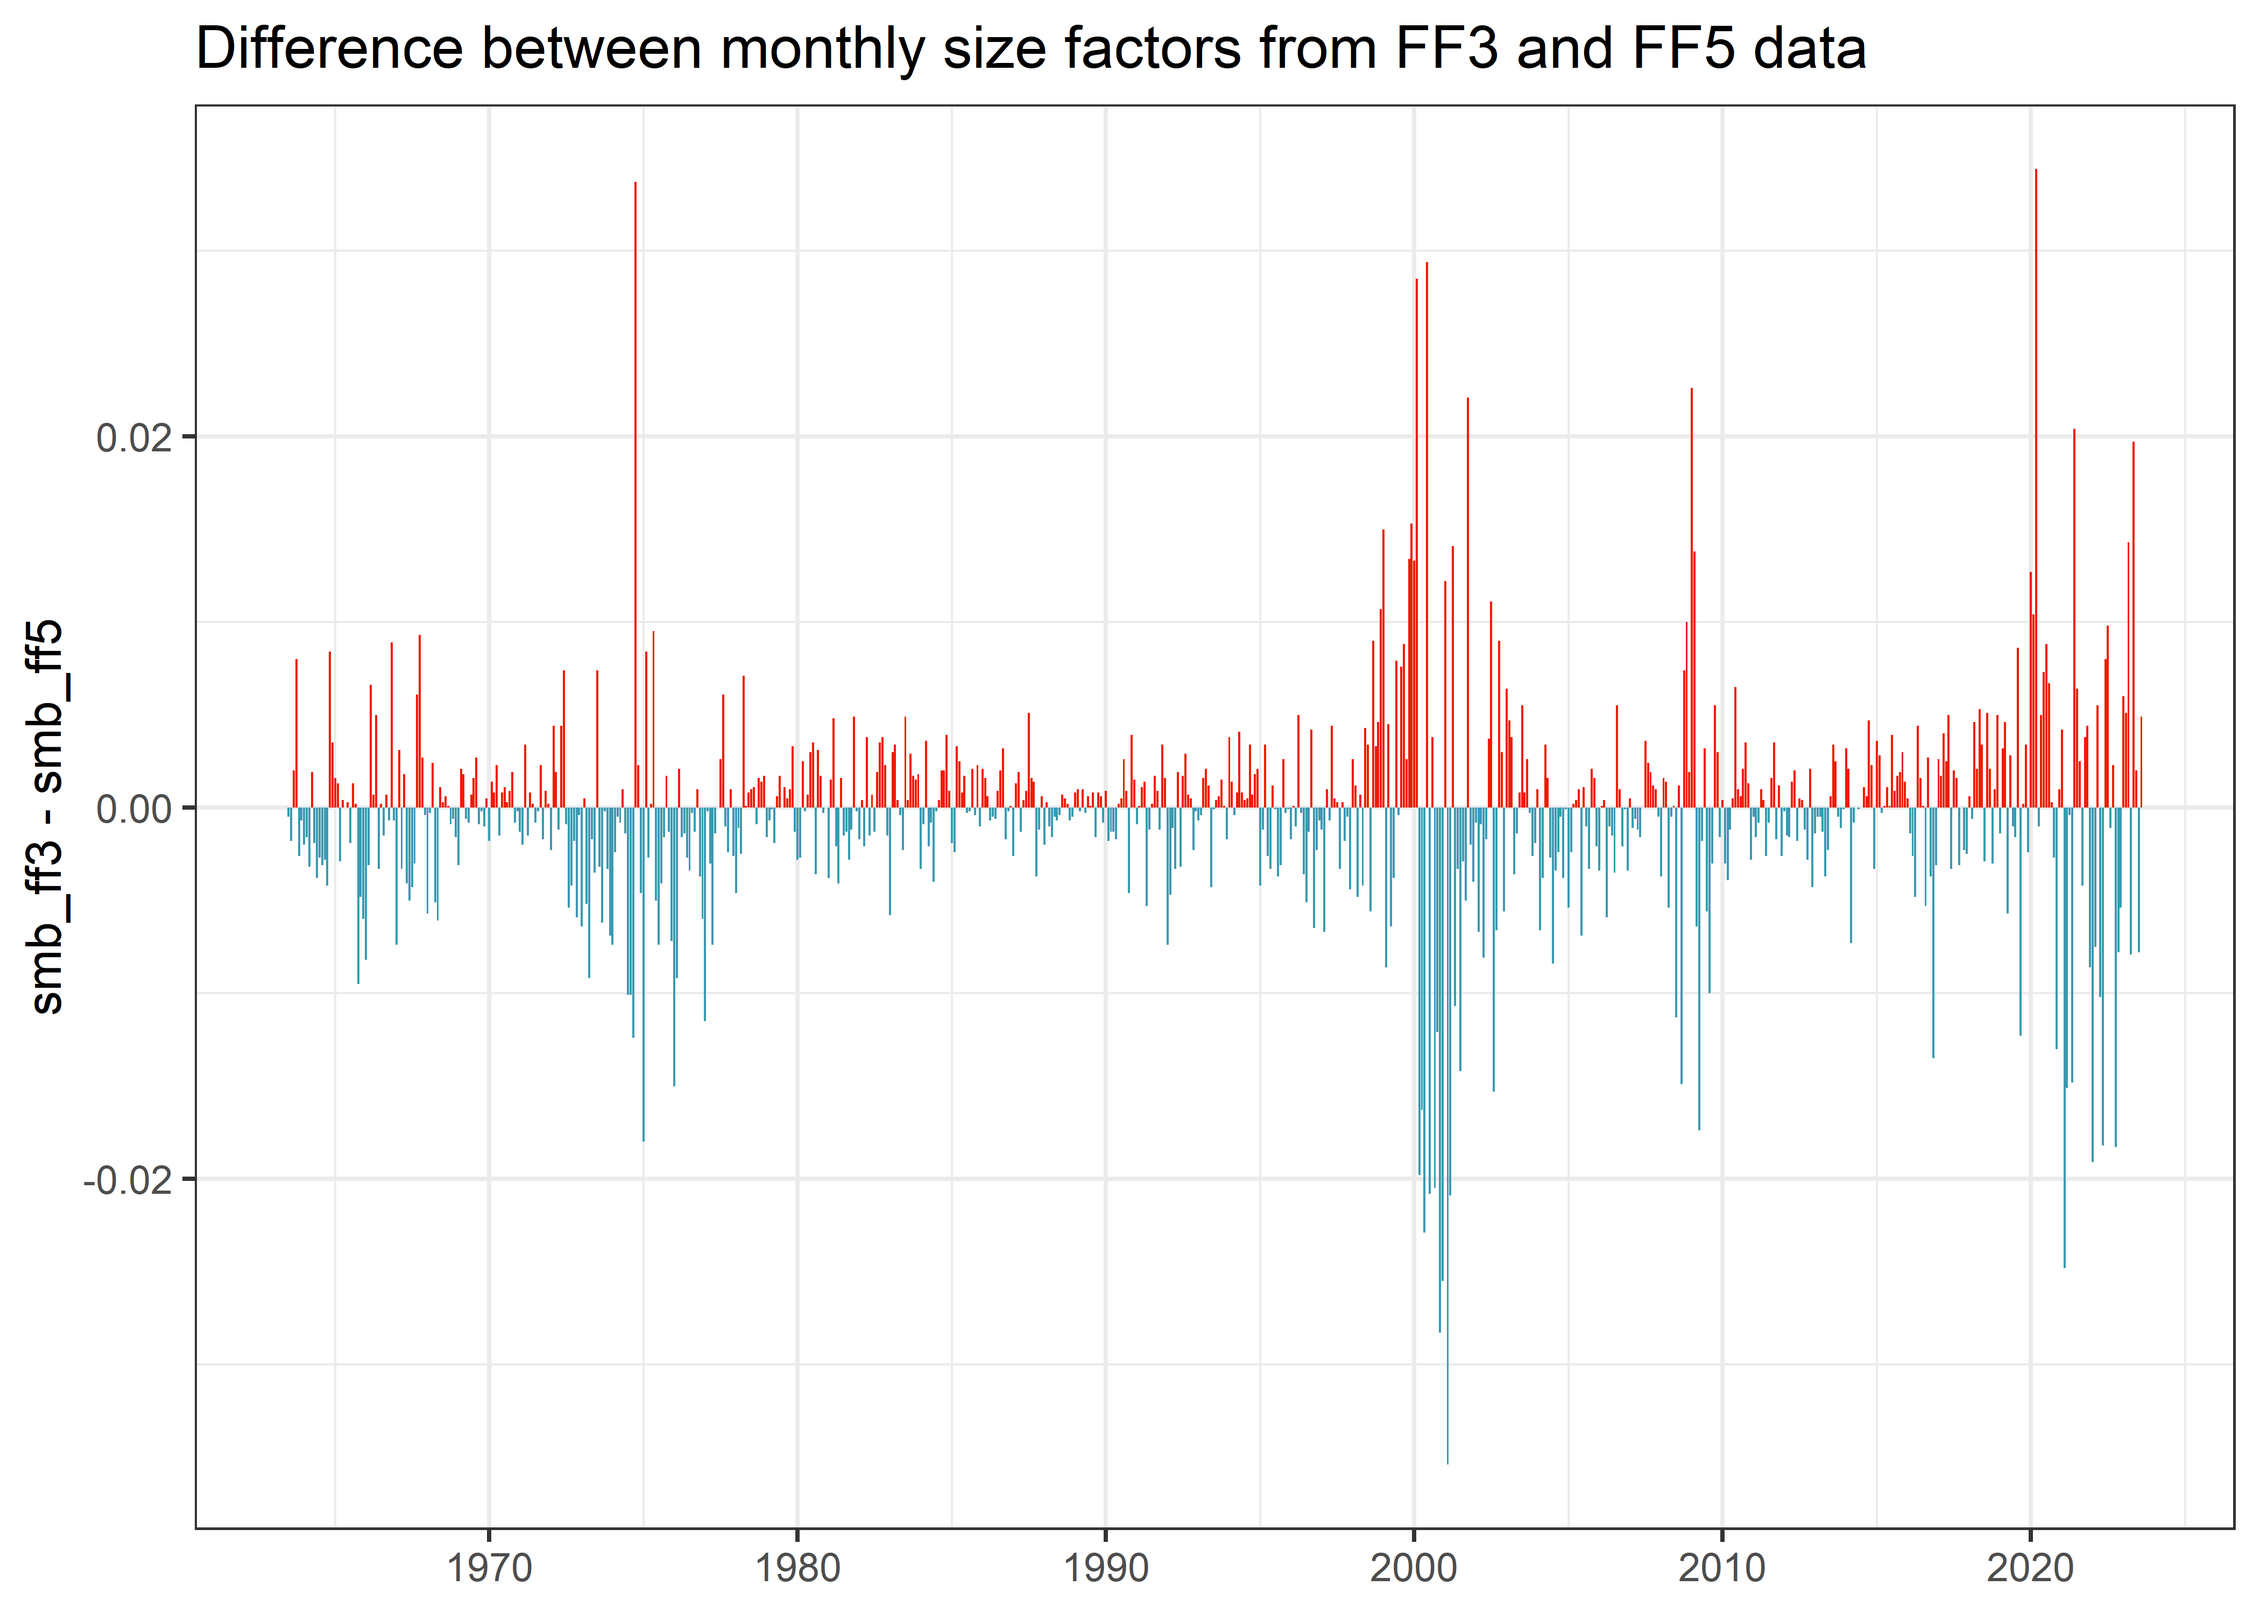
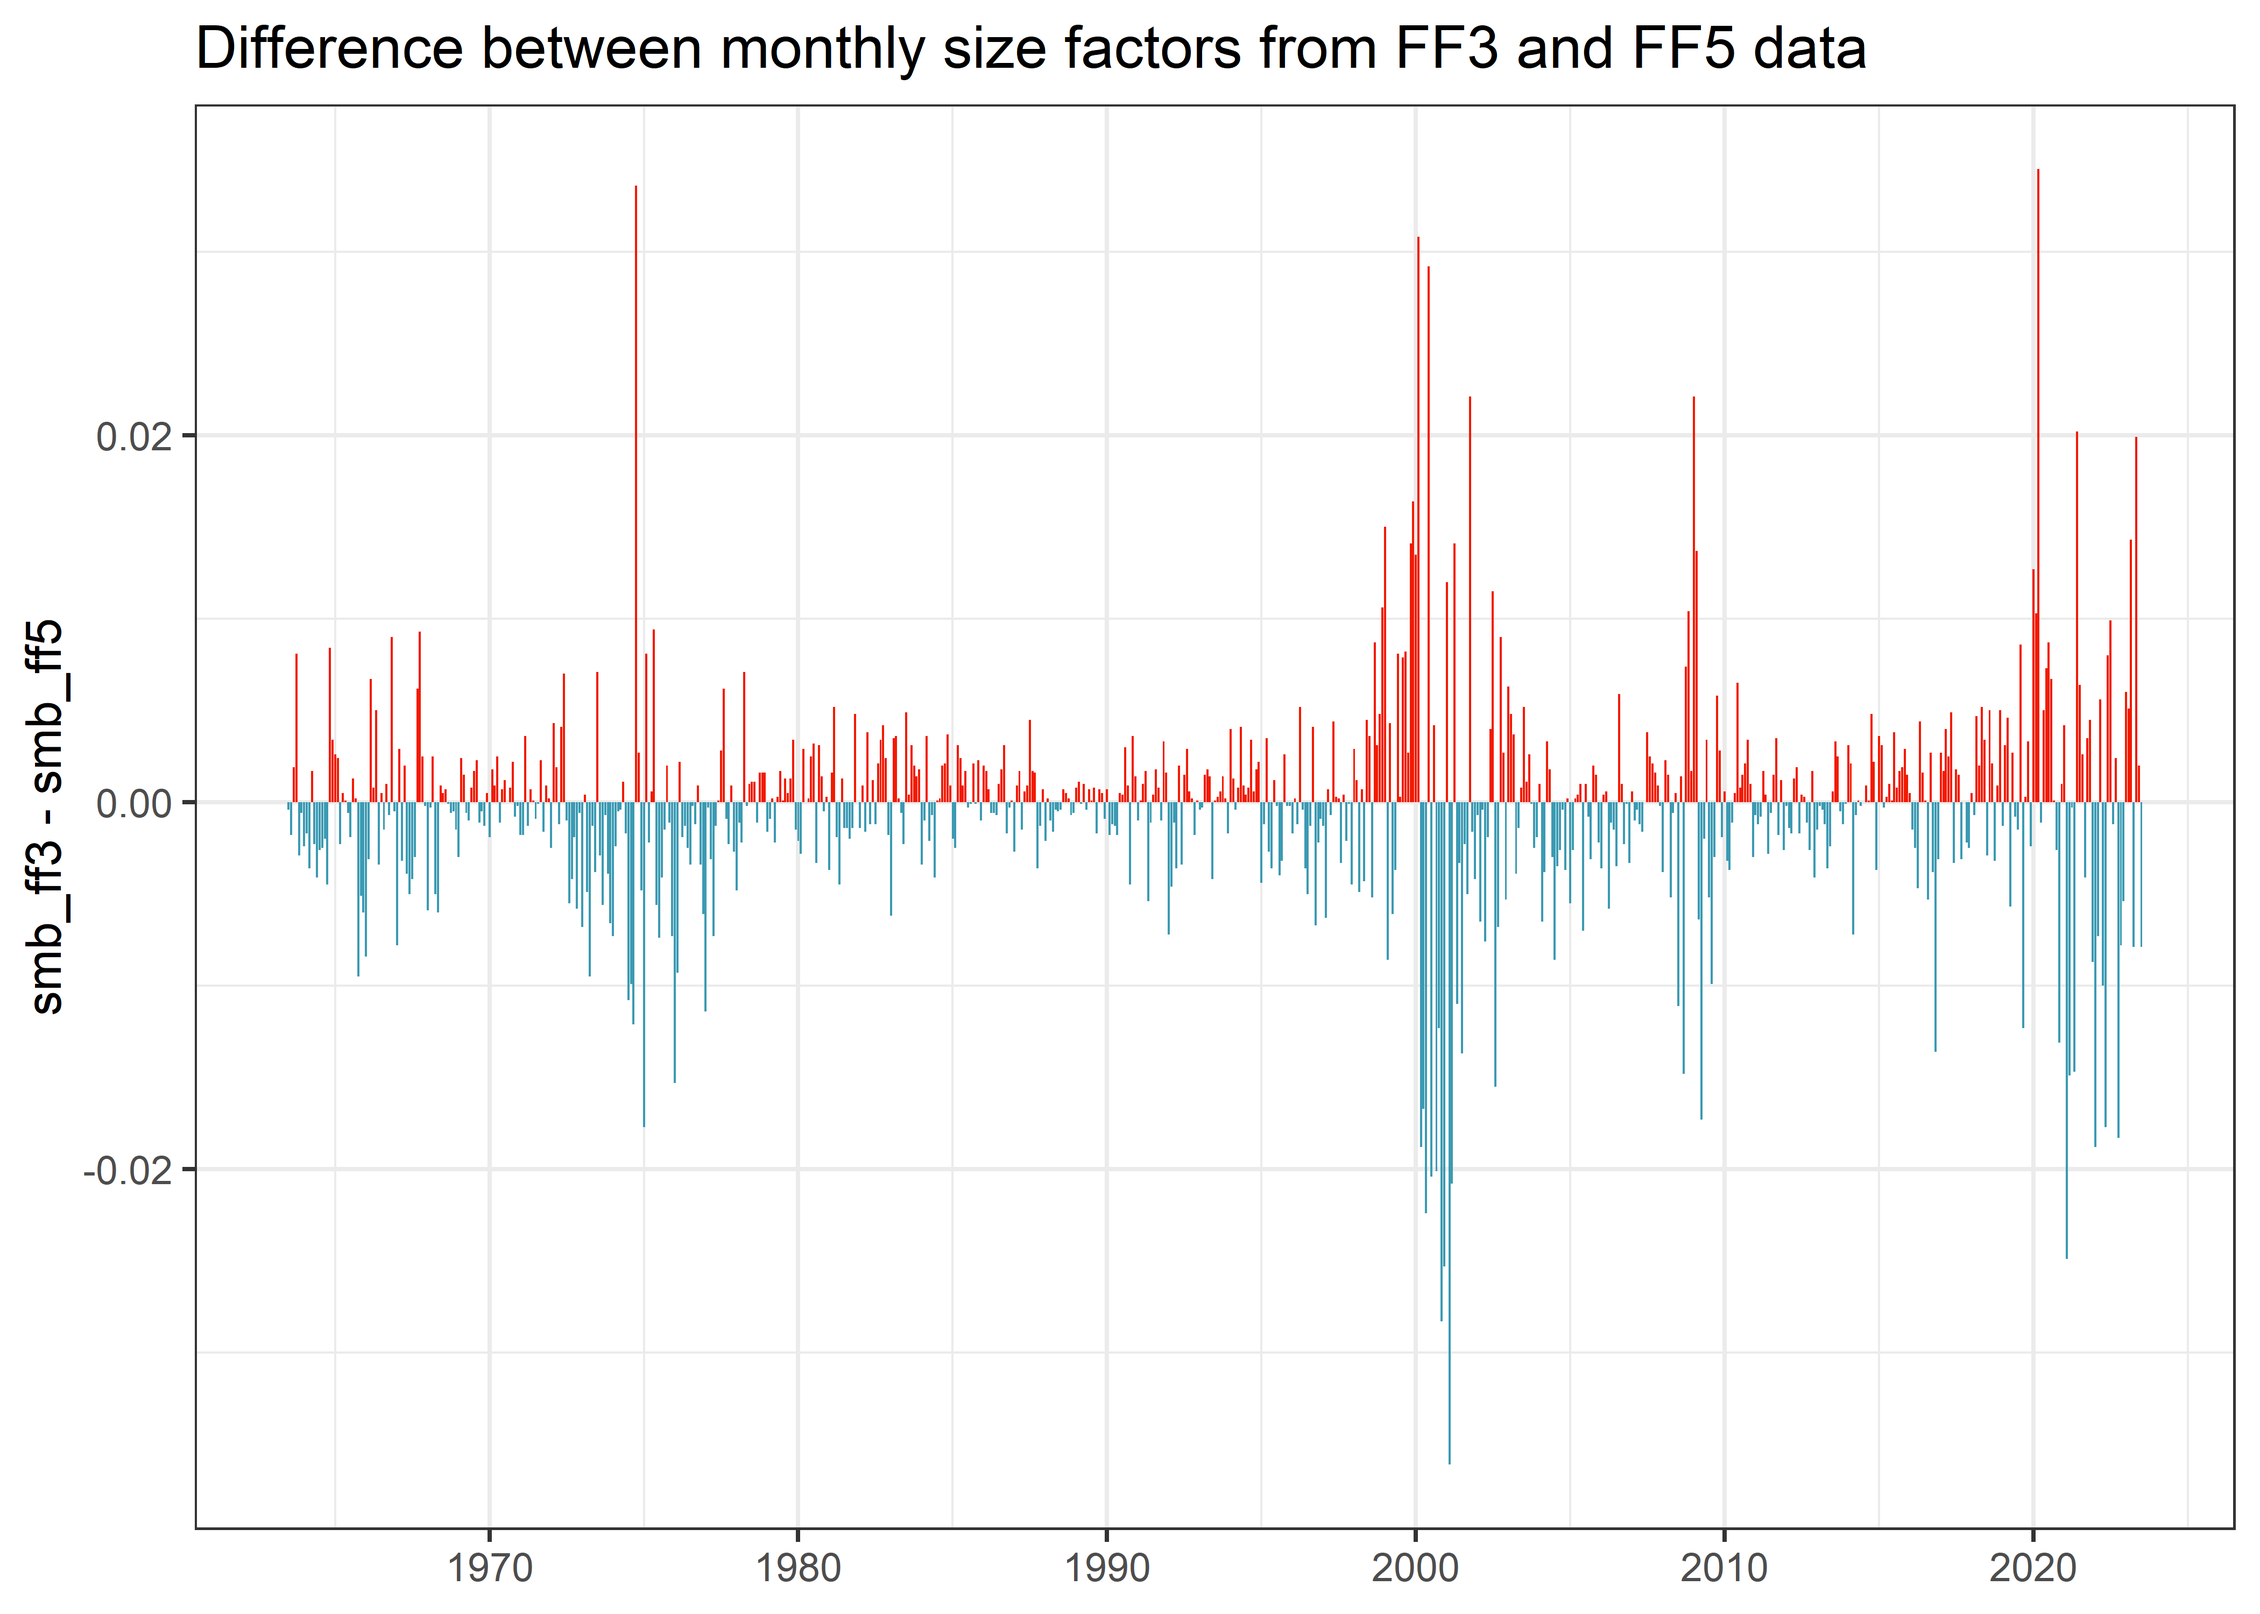
Fixed category in blog/fama-french-three-vs-five-factors

diff --git a/docs/blog/fama-french-three-vs-five-factors/index.html b/docs/blog/fama-french-three-vs-five-factors/index.html
@@ -2,7 +2,7 @@
 <html xmlns="http://www.w3.org/1999/xhtml" lang="en" xml:lang="en"><head>
 
 <meta charset="utf-8">
-<meta name="generator" content="quarto-1.4.415">
+<meta name="generator" content="quarto-1.4.424">
 
 <meta name="viewport" content="width=device-width, initial-scale=1.0, user-scalable=yes">
 
@@ -214,7 +214,7 @@ cookieconsent.run({
       </div>
                           <div class="quarto-categories">
                 <div class="quarto-category">Data</div>
-                <div class="quarto-category">Replication</div>
+                <div class="quarto-category">Replications</div>
                 <div class="quarto-category">R</div>
               </div>
                   </div>
@@ -338,16 +338,16 @@ cookieconsent.run({
 <span id="cb2-16"><a href="#cb2-16" aria-hidden="true" tabindex="-1"></a>  <span class="fu">print</span>(<span class="at">n =</span> <span class="cn">Inf</span>)</span></code><button title="Copy to Clipboard" class="code-copy-button"><i class="bi"></i></button></pre></div>
 <div class="cell-output cell-output-stdout">
 <pre><code># A tibble: 8 × 9
-  name        mean      sd    min     q05     q50    q95    max     n
-  &lt;chr&gt;      &lt;dbl&gt;   &lt;dbl&gt;  &lt;dbl&gt;   &lt;dbl&gt;   &lt;dbl&gt;  &lt;dbl&gt;  &lt;dbl&gt; &lt;int&gt;
-1 hml_ff3  0.00288 0.0300  -0.139 -0.041  0.0024  0.0541 0.129    722
-2 hml_ff5  0.00288 0.0300  -0.139 -0.041  0.0024  0.0541 0.129    722
-3 mkt_exc… 0.00564 0.0449  -0.232 -0.0726 0.00915 0.0713 0.161    722
-4 mkt_exc… 0.00564 0.0449  -0.232 -0.0726 0.00915 0.0713 0.161    722
-5 rf_ff3   0.00362 0.00266  0      0      0.0038  0.0081 0.0135   722
-6 rf_ff5   0.00362 0.00266  0      0      0.0038  0.0081 0.0135   722
-7 smb_ff3  0.00182 0.0303  -0.175 -0.0421 0.0011  0.0499 0.212    722
-8 smb_ff5  0.00216 0.0301  -0.155 -0.0432 0.0008  0.0482 0.184    722</code></pre>
+  name         mean      sd    min     q05    q50    q95    max     n
+  &lt;chr&gt;       &lt;dbl&gt;   &lt;dbl&gt;  &lt;dbl&gt;   &lt;dbl&gt;  &lt;dbl&gt;  &lt;dbl&gt;  &lt;dbl&gt; &lt;int&gt;
+1 hml_ff3   0.00284 0.0300  -0.139 -0.0413 0.0022 0.0541 0.128    721
+2 hml_ff5   0.00284 0.0300  -0.139 -0.0413 0.0022 0.0541 0.128    721
+3 mkt_exce… 0.00568 0.0449  -0.232 -0.0726 0.0092 0.0713 0.161    721
+4 mkt_exce… 0.00568 0.0449  -0.232 -0.0726 0.0092 0.0713 0.161    721
+5 rf_ff3    0.00362 0.00266  0      0      0.0038 0.0081 0.0135   721
+6 rf_ff5    0.00362 0.00266  0      0      0.0038 0.0081 0.0135   721
+7 smb_ff3   0.00186 0.0304  -0.172 -0.0421 0.0011 0.0501 0.214    721
+8 smb_ff5   0.00219 0.0302  -0.153 -0.0431 0.001  0.0481 0.183    721</code></pre>
 </div>
 </div>
 <p>The above table shows that risk free rates <code>rf_*</code>, market excess returns <code>mkt_excess_*</code>, and value factors <code>hml_*</code> show de facto identical value across all statistics for FF3 and FF5. However, the size factors <code>smb_*</code> seem to be different between the data sets. Another way to show the difference is running regressions, as we do in our replication chapters:</p>
@@ -361,18 +361,18 @@ lm(formula = smb_ff3 ~ smb_ff5, data = factors_ff_monthly)
 
 Residuals:
      Min       1Q   Median       3Q      Max 
--0.03472 -0.00194  0.00029  0.00208  0.03361 
+-0.03543 -0.00192  0.00032  0.00205  0.03373 
 
 Coefficients:
              Estimate Std. Error t value Pr(&gt;|t|)    
-(Intercept) -0.000318   0.000222   -1.44     0.15    
-smb_ff5      0.986690   0.007345  134.34   &lt;2e-16 ***
+(Intercept) -0.000303   0.000222   -1.36     0.17    
+smb_ff5      0.987055   0.007338  134.51   &lt;2e-16 ***
 ---
 Signif. codes:  0 '***' 0.001 '**' 0.01 '*' 0.05 '.' 0.1 ' ' 1
 
-Residual standard error: 0.00594 on 720 degrees of freedom
+Residual standard error: 0.00595 on 719 degrees of freedom
 Multiple R-squared:  0.962, Adjusted R-squared:  0.962 
-F-statistic: 1.8e+04 on 1 and 720 DF,  p-value: &lt;2e-16</code></pre>
+F-statistic: 1.81e+04 on 1 and 719 DF,  p-value: &lt;2e-16</code></pre>
 </div>
 </div>
 <p>Regressing the FF3 size factor on its FF5 counterpart yields a coefficient of 0.99 and an R-squared around 96%, so definitely no perfect co-movement.</p>
@@ -423,18 +423,18 @@ Figure&nbsp;1: End-of-month difference between monthly size factors from Fama-Fr
 <pre><code>                        model_ff3         model_ff5
 Dependent Var.:         ret_other         ret_other
                                                    
-Constant         0.0017** (2.647)  0.0017** (2.642)
-mkt_excess_ff3   1.139*** (76.84)                  
-smb_ff3           0.0490* (2.247)                  
-hml_ff3         0.4002*** (18.59)                  
-mkt_excess_ff5                     1.135*** (76.51)
-smb_ff5                            0.0675** (3.118)
-hml_ff5                           0.3916*** (18.35)
+Constant         0.0017** (2.694)  0.0017** (2.689)
+mkt_excess_ff3   1.139*** (76.67)                  
+smb_ff3           0.0500* (2.299)                  
+hml_ff3         0.3984*** (18.48)                  
+mkt_excess_ff5                     1.135*** (76.35)
+smb_ff5                            0.0690** (3.196)
+hml_ff5                           0.3897*** (18.23)
 _______________ _________________ _________________
 VCOV type                     IID               IID
-Observations                  722               722
-R2                        0.90013           0.90077
-Adj. R2                   0.89971           0.90035
+Observations                  721               721
+R2                        0.89991           0.90059
+Adj. R2                   0.89949           0.90017
 ---
 Signif. codes: 0 '***' 0.001 '**' 0.01 '*' 0.05 '.' 0.1 ' ' 1</code></pre>
 </div>
@@ -484,18 +484,18 @@ lm(formula = smb_ff3 ~ smb_ff5, data = factors_ff_daily)
 
 Residuals:
       Min        1Q    Median        3Q       Max 
--0.019492 -0.000392  0.000023  0.000413  0.012953 
+-0.019389 -0.000393  0.000026  0.000419  0.013334 
 
 Coefficients:
              Estimate Std. Error t value Pr(&gt;|t|)    
-(Intercept) -1.63e-05   1.02e-05    -1.6     0.11    
-smb_ff5      9.72e-01   1.88e-03   515.9   &lt;2e-16 ***
+(Intercept) -1.50e-05   1.02e-05   -1.48     0.14    
+smb_ff5      9.72e-01   1.88e-03  517.15   &lt;2e-16 ***
 ---
 Signif. codes:  0 '***' 0.001 '**' 0.01 '*' 0.05 '.' 0.1 ' ' 1
 
-Residual standard error: 0.00125 on 15122 degrees of freedom
+Residual standard error: 0.00125 on 15121 degrees of freedom
 Multiple R-squared:  0.946, Adjusted R-squared:  0.946 
-F-statistic: 2.66e+05 on 1 and 15122 DF,  p-value: &lt;2e-16</code></pre>
+F-statistic: 2.67e+05 on 1 and 15121 DF,  p-value: &lt;2e-16</code></pre>
 </div>
 </div>
 <p>Regressing the FF3 size factor on its FF5 counterpart yields a coefficient of 0.97 and an R-squared around 95%, so again no perfect co-movement. Unreported results of the distributions and differences over time confirm the regression results and are in line with differences among monthly factor data.</p>
